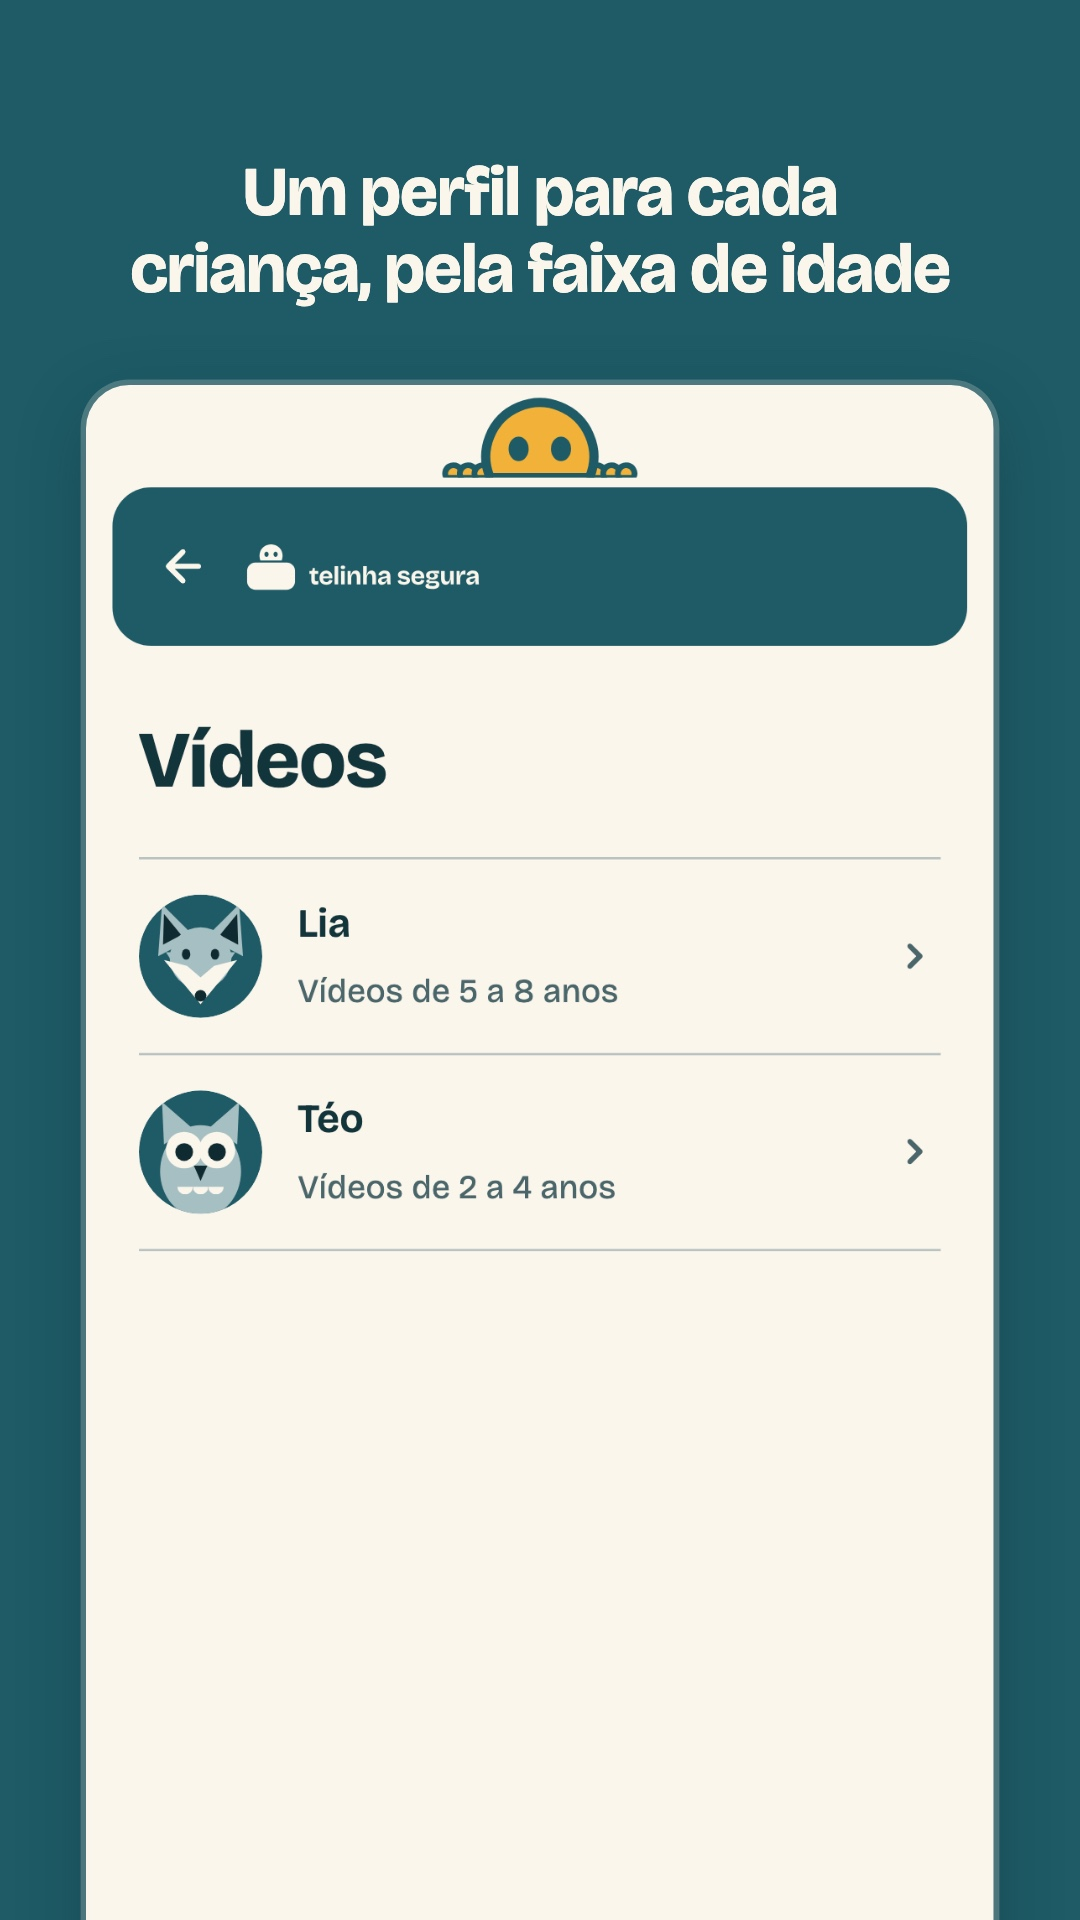
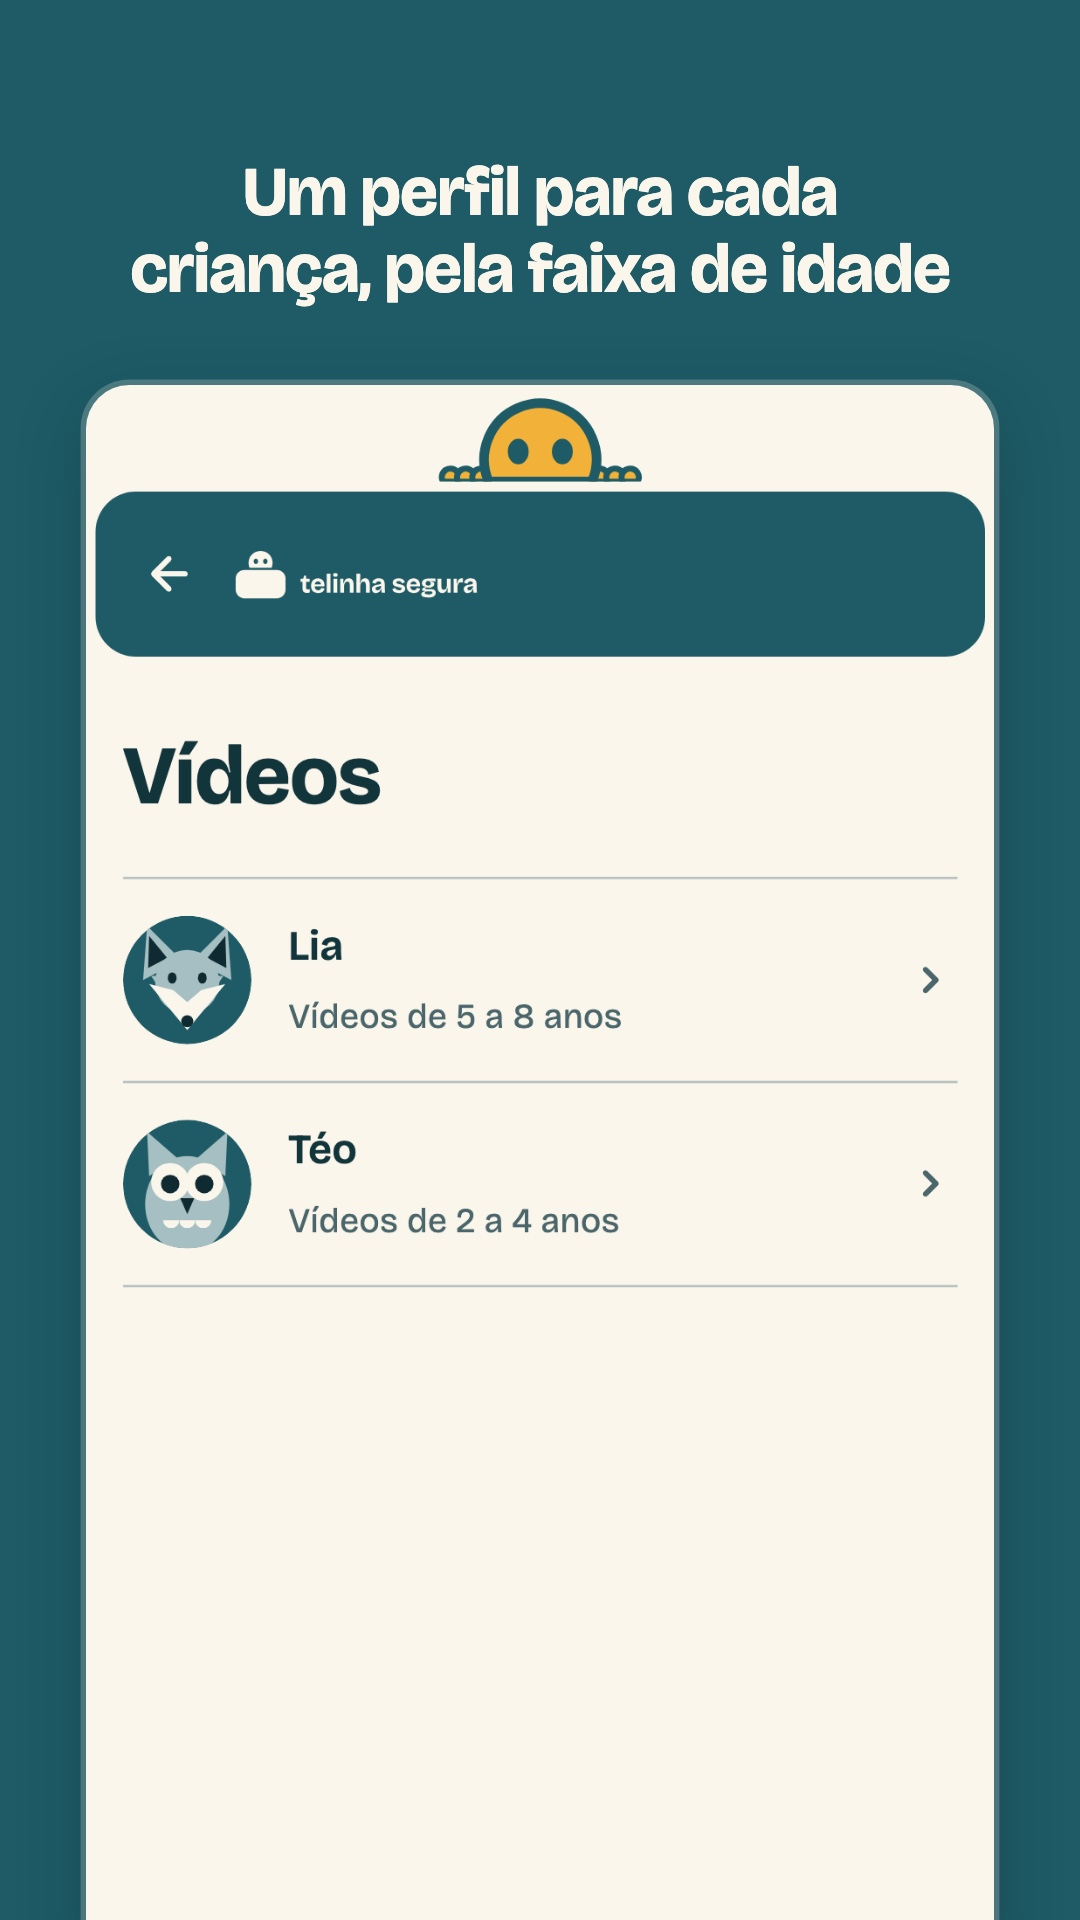
feat(app): frame each store screenshot on what its caption says

diff --git a/app/store_screens/frame.html b/app/store_screens/frame.html
@@ -11,9 +11,15 @@
       w, h     canvas size in pixels (the store size)
       caption  the line above the screen
       shot     file URL of the raw capture of the screen
+      crop     optional "x0,y0,x1": the part of the capture to show, as
+               fractions of its width and height; it runs to the bottom of
+               the capture, and the default "0,0,1" shows all of it
 
     Every measure is a proportion of the canvas, so one layout serves the
-    phone, the tablet and the iPad sizes.
+    phone, the tablet and the iPad sizes. The crop only zooms into the real
+    capture, so a frame can show the part of the screen its caption is about.
+    If the brand font or the capture fails to fill the frame, the page stays
+    blank, so the render is caught instead of shipping a fallback.
   -->
   <style>
     @font-face {
@@ -52,69 +58,95 @@
       text-wrap: balance;
     }
 
-    img {
+    .screen {
+      position: absolute;
+      overflow: hidden;
+    }
+
+    .screen img {
       position: absolute;
       display: block;
+      max-width: none;
+    }
+
+    .blank > * {
+      display: none;
     }
   </style>
 </head>
 <body>
   <div class="frame">
     <h1></h1>
-    <img alt="">
+    <div class="screen"><img alt=""></div>
   </div>
   <script>
     const q = new URLSearchParams(location.search);
     const w = Number(q.get("w"));
     const h = Number(q.get("h"));
+    const [x0, y0, x1] = (q.get("crop") || "0,0,1").split(",").map(Number);
     // Tablets are squarer than phones: a narrower screen and a caption set
-    // in a narrower measure keep the same balance on the wider canvas. The
-    // caption stays larger than any text inside the screen, which on the
-    // wide layouts carries its own large brand panel.
+    // in a narrower measure keep the same balance on the wider canvas.
     const tablet = h / w < 1.7;
 
     const frame = document.querySelector(".frame");
     const title = document.querySelector("h1");
+    const screen = document.querySelector(".screen");
     const shot = document.querySelector("img");
 
     document.body.style.width = frame.style.width = w + "px";
     document.body.style.height = frame.style.height = h + "px";
 
-    const pad = 0.07 * w;
     title.textContent = q.get("caption");
-    const side = tablet ? 0.12 * w : pad;
+    const side = (tablet ? 0.12 : 0.07) * w;
     title.style.left = title.style.right = side + "px";
     title.style.fontSize = (tablet ? 0.058 : 0.064) * w + "px";
 
-    const shotW = (tablet ? 0.80 : 0.84) * w;
-    shot.style.width = shotW + "px";
-    shot.style.left = (w - shotW) / 2 + "px";
-    shot.style.borderRadius = 0.04 * w + "px";
-    // A faint cream rim keeps the edge of an ink-coloured screen (kid mode,
-    // the brand panel) from melting into the ground.
-    shot.style.boxShadow = `0 0 0 ${0.005 * w}px rgba(251, 246, 236, .22), ` +
+    const cardW = (tablet ? 0.80 : 0.84) * w;
+    screen.style.width = cardW + "px";
+    screen.style.left = (w - cardW) / 2 + "px";
+    screen.style.borderRadius = 0.04 * w + "px";
+    // A faint cream rim keeps the edge of an ink-coloured screen (kid mode)
+    // from melting into the ground.
+    screen.style.boxShadow = `0 0 0 ${0.005 * w}px rgba(251, 246, 236, .22), ` +
       `0 ${0.02 * w}px ${0.06 * w}px rgba(15, 42, 48, .35)`;
 
-    function layout() {
-      const shotH = shotW * shot.naturalHeight / shot.naturalWidth;
-      const top = 0.08 * h;
-      const gap = 0.04 * h;
-      const captionH = title.getBoundingClientRect().height;
-      let shotTop = top + captionH + gap;
-      // The screen must visibly run off the bottom edge. When the caption
-      // is short and the screen squat, push the screen down so at least its
-      // rounded bottom corners are cut, and centre the caption in the room
-      // above.
-      const minCut = 0.03 * shotH;
-      if (shotTop + shotH < h + minCut) {
-        shotTop = h + minCut - shotH;
-      }
-      const captionTop = Math.max(top, (shotTop - gap - captionH) / 2 + top / 2);
-      title.style.top = captionTop + "px";
-      shot.style.top = shotTop + "px";
+    function fail() {
+      frame.classList.add("blank");
     }
 
-    shot.addEventListener("load", () => document.fonts.ready.then(layout));
+    function layout() {
+      const brand = '700 10px "Bricolage Grotesque"';
+      const loaded = [...document.fonts].some(
+        (f) => f.family.includes("Bricolage Grotesque") && f.status === "loaded");
+      if (!loaded || !document.fonts.check(brand)) {
+        return fail();
+      }
+      const top = 0.08 * h;
+      const gap = 0.04 * h;
+      // The card runs past the bottom edge, so its lower corners are cut.
+      const cut = 0.03 * h;
+      title.style.top = top + "px";
+      const cardTop = top + title.getBoundingClientRect().height + gap;
+      const cardH = h - cardTop + cut;
+      const imgW = cardW / (x1 - x0);
+      const imgH = imgW * shot.naturalHeight / shot.naturalWidth;
+      // The capture must fill the card down past the edge; a crop that
+      // leaves a gap would show the ground under the screen.
+      if ((1 - y0) * imgH < cardH) {
+        return fail();
+      }
+      screen.style.top = cardTop + "px";
+      screen.style.height = cardH + "px";
+      shot.style.width = imgW + "px";
+      shot.style.left = -x0 * imgW + "px";
+      shot.style.top = -y0 * imgH + "px";
+    }
+
+    shot.addEventListener("error", fail);
+    shot.addEventListener("load", () =>
+      document.fonts.load('700 10px "Bricolage Grotesque"')
+        .then(() => document.fonts.ready)
+        .then(layout, fail));
     shot.src = q.get("shot");
   </script>
 </body>

diff --git a/app/store_screens/feature.html b/app/store_screens/feature.html
@@ -7,7 +7,9 @@
     The Google Play feature graphic, 1024x500: the link preview card's
     composition at the Play size. compose.sh renders it with headless Chrome.
     Play may crop the edges and lay its own button over the middle, so the
-    headline stays inside the central 600 px.
+    headline stays inside the central 600 px. If the brand font does not
+    load, the page stays blank, so the render is caught instead of shipping
+    a fallback.
   -->
   <style>
     @font-face {
@@ -53,6 +55,10 @@
       color: var(--cream);
     }
 
+    .blank > * {
+      display: none;
+    }
+
     h1 span {
       display: block;
       white-space: nowrap;
@@ -71,7 +77,7 @@
 </head>
 <body>
   <div class="card">
-    <h1><span>Vídeos escolhidos</span><span>por gente, não</span><span>por algoritmo</span></h1>
+    <h1><span>Vídeos escolhidos</span><span>por gente,</span><span>não por algoritmo</span></h1>
     <!-- The Espiadinha: the head and fingers peek over an empty telinha. -->
     <svg class="mark" viewBox="2 4 60 57" aria-hidden="true">
       <path fill="#FBF6EC" d="M13 27H51A10 10 0 0 1 61 37V50A10 10 0 0 1 51 60H13A10 10 0 0 1 3 50V37A10 10 0 0 1 13 27Z"/>
@@ -81,5 +87,17 @@
       <ellipse fill="#0F2A30" cx="37.5" cy="17" rx="2.6" ry="3.2"/>
     </svg>
   </div>
+  <script>
+    const brand = '700 10px "Bricolage Grotesque"';
+    const card = document.querySelector(".card");
+    card.classList.add("blank");
+    document.fonts.load(brand).then(() => document.fonts.ready).then(() => {
+      const loaded = [...document.fonts].some(
+        (f) => f.family.includes("Bricolage Grotesque") && f.status === "loaded");
+      if (loaded && document.fonts.check(brand)) {
+        card.classList.remove("blank");
+      }
+    });
+  </script>
 </body>
 </html>
